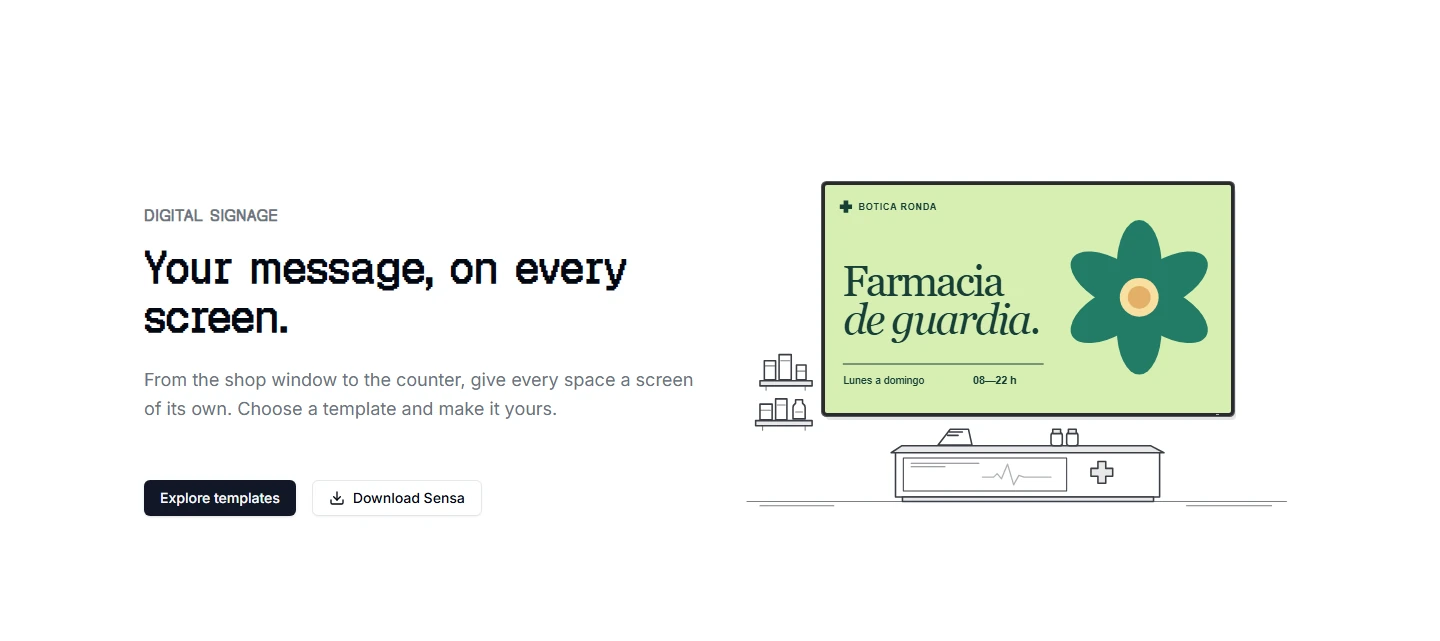
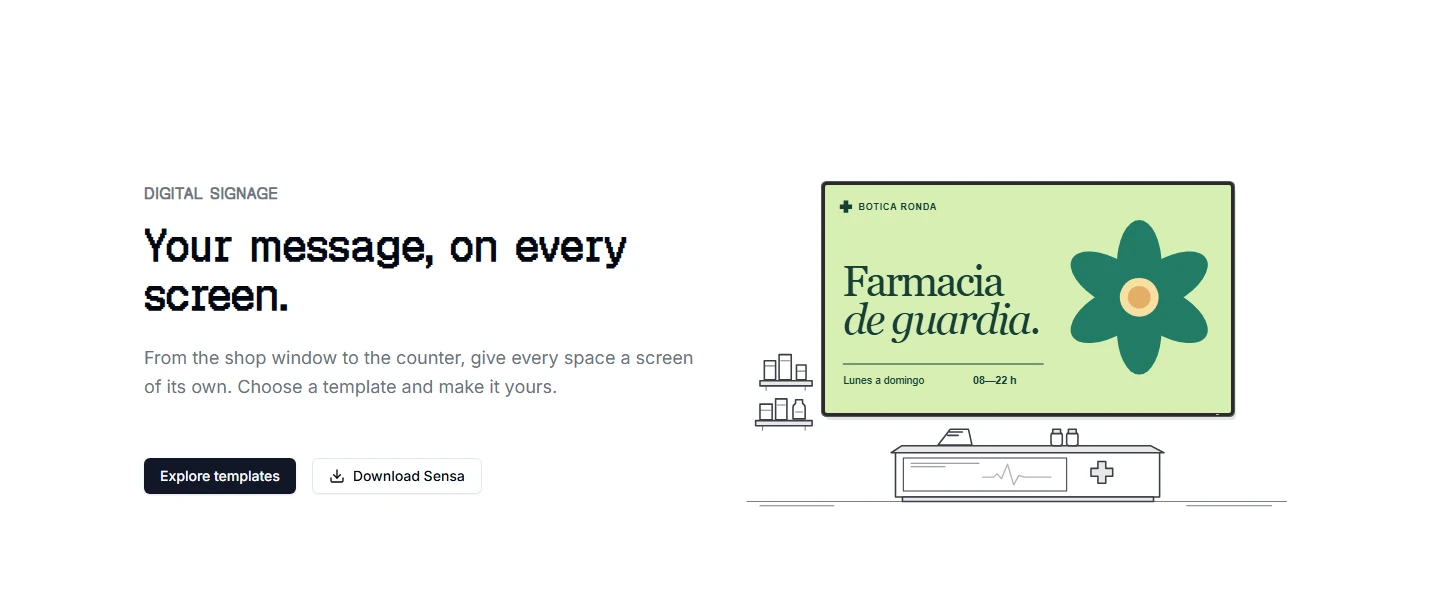
fix: centrar el texto del hero con la escena de plantillas

diff --git a/components/ui/hero/screen.module.css b/components/ui/hero/screen.module.css
@@ -1,4 +1,5 @@
 .carousel {
+  --control-size: 44px;
   --scene-fade: 700ms ease-in-out;
   --room-paper: hsl(var(--background));
   --room-ink: color-mix(in srgb, hsl(var(--foreground)) 78%, var(--room-paper));
@@ -147,14 +148,14 @@
   position: absolute;
   z-index: 2;
   /* The lower-right wall is clear of the screen and every room's furniture. */
-  inset-inline-start: max(86%, calc(100% - 44px));
+  inset-inline-start: max(86%, calc(100% - var(--control-size)));
   top: calc(73% + 6px);
   margin: 0;
   color: hsl(var(--muted-foreground));
 }
 .controls button {
-  width: 44px;
-  height: 44px;
+  width: var(--control-size);
+  height: var(--control-size);
   display: grid;
   place-items: center;
   border-radius: 50%;
@@ -180,6 +181,12 @@
   text-align: center;
   color: hsl(var(--muted-foreground));
   white-space: nowrap;
+}
+@media (min-width: 1024px) {
+  [data-hero-content="horizontal"] .carousel:has(> .controls[data-single="false"]) {
+    /* Center the stage with the copy. The control row extends into the section padding. */
+    margin-block-end: calc(-1 * var(--control-size));
+  }
 }
 @media (min-width: 768px) and (hover: hover) and (pointer: fine) and (not (any-pointer: coarse)) {
   [data-hero-content]:not(:hover):not(:has(:focus-visible)) .controls {

diff --git a/components/ui/hero/hero-layout.tsx b/components/ui/hero/hero-layout.tsx
@@ -71,7 +71,7 @@ export default function HeroLayout({
   return (
     <div className="container dark:bg-background py-20 lg:pt-40">
       <div
-        data-hero-content=""
+        data-hero-content={textAbove ? "vertical" : "horizontal"}
         className={
           textAbove ? styles.textAbove : "grid grid-cols-1 gap-10 lg:grid-cols-2"
         }

diff --git a/components/ui/hero/layout.module.css b/components/ui/hero/layout.module.css
@@ -22,3 +22,9 @@
 .textAbove > :empty {
   display: none;
 }
+
+@media (min-width: 1024px) {
+  [data-hero-content="horizontal"] > .intro > :first-child {
+    margin-block-start: 0;
+  }
+}

diff --git a/docs/hero-screen.md b/docs/hero-screen.md
@@ -18,7 +18,7 @@ La pantalla horizontal muestra la plantilla completa. Mientras la plantilla se v
 
 Con varias plantillas, la imagen cambia cada cinco segundos. La plantilla anterior y la siguiente se mezclan durante 700 ms. Si cambia el ambiente, el mobiliario se desvanece al mismo ritmo. Dos plantillas del mismo negocio comparten la animación en curso. Con una sola plantilla, la imagen permanece fija y el ambiente se anima en bucle mientras está a la vista. Un botón de pausa en el margen derecho evita añadir una fila a la escena.
 
-En escritorio, los controles aparecen al acercar el ratón al texto o a la escena y al navegar por el hero con teclado. En móvil y pantallas táctiles permanecen visibles. El contador queda entre las flechas y reserva el mismo ancho para todas las posiciones. Los controles usan el idioma de la página.
+En escritorio, **Side by side** centra el bloque de texto y botones con la escena. Los controles aparecen al acercar el ratón al texto o a la escena y al navegar por el hero con teclado. En móvil y pantallas táctiles permanecen visibles. El contador queda entre las flechas y reserva el mismo ancho para todas las posiciones. Los controles usan el idioma de la página.
 
 Pasar el puntero por la escena mantiene la plantilla visible mientras se mueve el ambiente. **Pausar** detiene tanto el dibujo como el carrusel y **Reproducir** los reanuda. Al entrar con teclado, la reproducción espera a que se pulse **Reproducir**. Con movimiento reducido se muestra la ilustración fija, el avance empieza pausado y los cambios son instantáneos. Si una imagen falla, se conserva la última disponible. Si faltan todas, aparece **Pantalla en reposo**.
 
